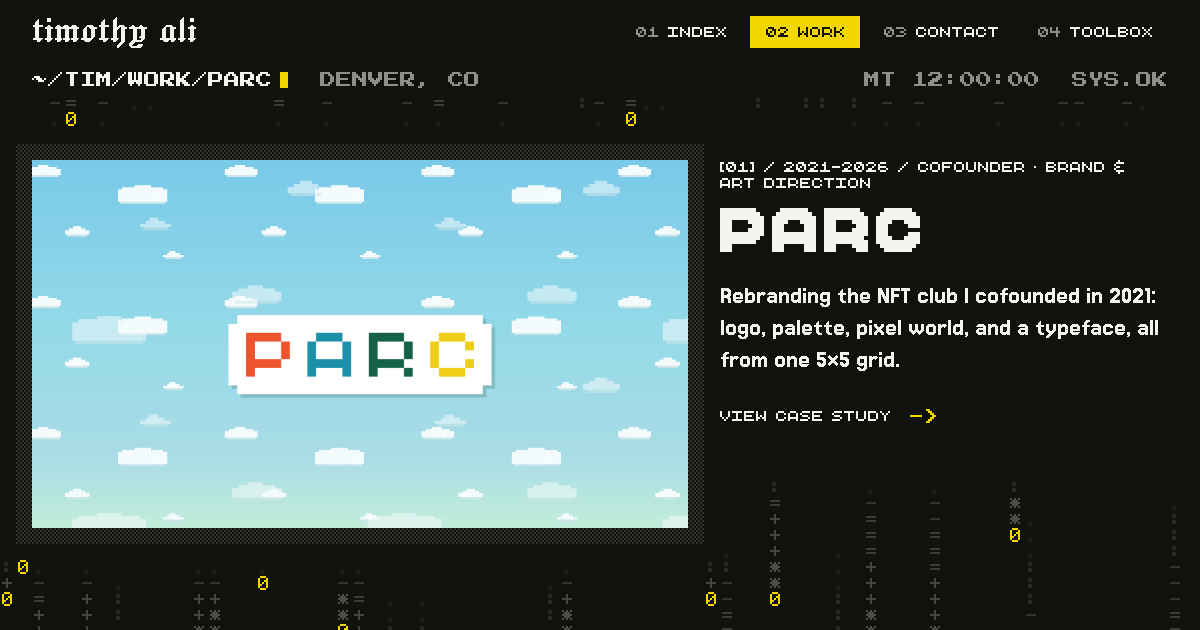
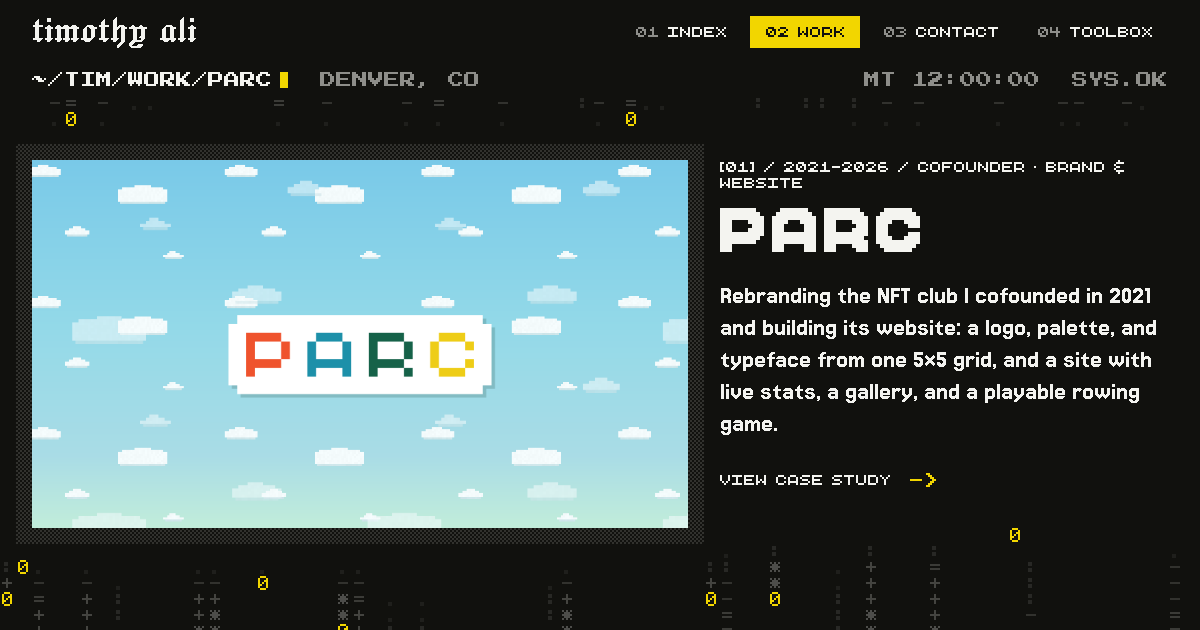
One PARC study, with the direction the team turned down (PX-45, PX-46)
PARC's website study is merged into the PARC brand study on Timothy's
direction (0126): the identity arc, then the site in its own blocks, one
reaction list and one outcome list. The brand study's duplicate site
screenshots go; the website study's are trimmed to about half. Eight
studies remain, the index tier now First Ledger, FirstStrike, Sonde and
Pocketwatch; /work/parc-site/ and /work/rowboat-racer/ redirect to
/work/parc/. Share images regenerated.

The study also gains "An earlier direction" (0125): the branch lockups
from around 2024 that the team did not agree on, rendered from Timothy's
SVG, with one paragraph in his account before the shipped logo.

The share-image generator takes OG_PORT from the environment; the review
scripts' route lists drop the old slug. Checks: svelte-check 0/0, 24
tests, production build, social:verify on 17 pages.

Changed region(s): [[0.5858, 0.5127, 0.9867, 0.6937], [0.5858, 0.754, 0.74, 0.7841], [0.6167, 0.2714, 0.74, 0.3016]]

diff --git a/src/lib/work.ts b/src/lib/work.ts
@@ -47,7 +47,7 @@ export interface Project extends Entry {
 export type Item = Project | Entry;
 
 // files that also exist as `<name>@2x.jpg` (2800px on the long side) for dense screens
-const X2 = new Set(['firstledger/guide-01', 'firstledger/guide-02', 'firstledger/guide-03', 'firstledger/guide-04', 'firstledger/guide-05', 'firstledger/guide-07', 'firstledger/guide-08', 'firstledger/guide-10', 'firstledger/hero', 'parc/club-masthead-sky', 'parc/phone-arcade', 'parc/phone-hero', 'parc/sign-sky', 'parc/site-arcade', 'parc/site-bands', 'parc/site-collections', 'parc/site-crew', 'parc/site-hero', 'xrpcafe/backdrop', 'xrpcafe/banner', 'xrpcafe/booth-setup', 'xrpcafe/booth-table', 'xrpcafe/booth-tablet', 'xrpcafe/booth-team', 'xrpcafe/jeopardy', 'xrpcafe/just-mint', 'xrpcafe/logo', 'xrpcafe/marketplace', 'xrpcafe/mug-bbq', 'xrpcafe/mug-pumpkin', 'xrpcafe/mug-saiyan', 'xrpcafe/vesea-charity', 'xrpcafe/xrpl-group', 'firststrike/billboard', 'firststrike/business-card', 'firststrike/color', 'firststrike/construction', 'firststrike/hero', 'firststrike/logo-primary', 'firststrike/logo-secondary', 'firststrike/mission', 'firststrike/pillars', 'firststrike/type']);
+const X2 = new Set(['parc/first-direction', 'firstledger/guide-01', 'firstledger/guide-02', 'firstledger/guide-03', 'firstledger/guide-04', 'firstledger/guide-05', 'firstledger/guide-07', 'firstledger/guide-08', 'firstledger/guide-10', 'firstledger/hero', 'parc/club-masthead-sky', 'parc/sign-sky', 'xrpcafe/backdrop', 'xrpcafe/banner', 'xrpcafe/booth-setup', 'xrpcafe/booth-table', 'xrpcafe/booth-tablet', 'xrpcafe/booth-team', 'xrpcafe/jeopardy', 'xrpcafe/just-mint', 'xrpcafe/logo', 'xrpcafe/marketplace', 'xrpcafe/mug-bbq', 'xrpcafe/mug-pumpkin', 'xrpcafe/mug-saiyan', 'xrpcafe/vesea-charity', 'xrpcafe/xrpl-group', 'firststrike/billboard', 'firststrike/business-card', 'firststrike/color', 'firststrike/construction', 'firststrike/hero', 'firststrike/logo-primary', 'firststrike/logo-secondary', 'firststrike/mission', 'firststrike/pillars', 'firststrike/type']);
 const media = (slug: string) => (f: string, w: number, h: number, alt: string): Media => {
   const base = f.replace(/\.[a-z]+$/, '');
   return { src: `/work/${slug}/${f}`, w, h, alt, x2: X2.has(`${slug}/${base}`) ? `/work/${slug}/${base}@2x.jpg` : undefined };
@@ -55,7 +55,7 @@ const media = (slug: string) => (f: string, w: number, h: number, alt: string): 
 const pa = media('parc'), xc = media('xrpcafe'), fl = media('firstledger'), dad = media('do-androids-dream');
 const fst = media('firststrike'), so = media('sonde'), ps = media('parc-site'), ja = media('jade-aesthetics'), pw = media('pocketwatch');
 
-/** Every project in display order: the selected four (PARC, Jade, xrp.cafe, Do Androids Dream, decision 0119), the index five, then the hidden two.
+/** Every project in display order: the selected four (PARC, Jade, xrp.cafe, Do Androids Dream, decision 0119), the index four (PARC Website merged into PARC, 0126), then the hidden two.
  *  `n` is assigned from the position in the visible set at the bottom of this file. */
 type Source = Omit<Project, 'n'> | Omit<Entry, 'n'>;
 const source: Source[] = [
@@ -65,16 +65,16 @@ const source: Source[] = [
     title: 'PARC',
     word: 'parc',
     year: '2021–2026',
-    scope: 'Cofounder · brand & art direction',
-    role: 'Cofounder · brand & art direction',
+    scope: 'Cofounder · brand & website',
+    role: 'Cofounder · brand, art direction & website',
     team: 'Cofounders xrpl_adam, sloppy, and stove',
-    timeline: 'Ongoing',
-    tools: 'Illustrator, Python (fontTools)',
+    timeline: 'Ongoing · site live since September 2026',
+    tools: 'Illustrator, Python (fontTools), SvelteKit, Svelte 5, TypeScript, Canvas, Vercel, Neon, Claude Code',
     live: { href: 'https://parcxrpl.com', label: 'parcxrpl.com' },
-    description: 'Rebranding the NFT club I cofounded in 2021: logo, palette, pixel world, and a typeface, all from one 5×5 grid.',
+    description: 'Rebranding the NFT club I cofounded in 2021 and building its website: a logo, palette, and typeface from one 5×5 grid, and a site with live stats, a gallery, and a playable rowing game.',
     cover: { src: '/work/parc.png', w: 1600, h: 900, alt: 'PARC’s four-color pixel letters on a white sign floating in a pixel-cloud sky' },
     lead: [
-      "I cofounded Pixel Ape Rowboat Club in 2021 and have led its branding and art direction since. For the 2026 rebrand I drew a new logo on the apes’ 5×5 grid, built PARC Pixel, a three-weight typeface, and carried both across the website, Discord, X, Twitch, merch, and the arcade."
+      "I cofounded Pixel Ape Rowboat Club in 2021 and have led its branding and art direction since. For the 2026 rebrand I drew a new logo on the apes’ 5×5 grid and built PARC Pixel, a three-weight typeface, then designed and built the club’s website on the same grid: live stats, a gallery, a playable rowing game, and merch."
     ],
     hero: [pa('sign-sky.png', 1600, 900, 'The new PARC box logo: four-color pixel letters on a white sign with notched corners, floating in a pixel-cloud sky')],
     blocks: [
@@ -85,17 +85,19 @@ const source: Source[] = [
       { type: 'text', title: 'The world', paras: [
         "The apes started with the Game Boy Advance Pokémon games as a reference: flat color, chunky pixels, sprites you could recognize at a glance. We built a world around them with islands, rowboats, volcanoes, and wooden huts. The rebrand needed to belong in that world."
       ] },
+      { type: 'text', title: 'An earlier direction', paras: [
+        "Around 2024 I had worked up a different direction: the club’s parts renamed as three branches, The Rowboat Club, The Parcade, and The Nightclub, each a black pixel wordmark with one red icon. The team didn’t agree on it, and it was set aside."
+      ] },
+      { type: 'gallery', note: 'Set aside, around 2024', rows: [
+        [pa('first-direction.png', 1600, 1000, 'The earlier direction: three black pixel lockups on white, The Nightclub, The Parcade, and The Rowboat Club, each with a small red icon')]
+      ] },
       { type: 'text', title: 'Same people, better brand', paras: [
         "The old logo was a cartoon ape with thick outlines and a bubbly wordmark. It didn’t look much like the pixel art around it. I drew the new logo on the apes’ 5×5 grid and put it on a white sign with notched corners.",
-        "The team was attached to the old identity and worried about how the community would react. An earlier rebrand direction I had worked up didn’t win them over, and we set it aside. This time I showed them the finished logo on its sign and asked them to trust me. The comments after launch were encouraging."
+        "The team was attached to the old identity and worried about how the community would react. This time I showed them the finished logo on its sign and asked them to trust me. The comments after launch were encouraging."
       ] },
       { type: 'gallery', note: 'Before, 2021 / after, 2026', rows: [
         [pa('old-mascot.png', 1600, 1600, 'The old PARC logo: a cartoon ape head with a wide grin and thick black outlines, a bubbly yellow PARC wordmark across the top'), pa('old-wordmark.png', 1600, 900, 'The old PARC secondary logo: the bubbly outlined wordmark in black')],
         [pa('mark-stacked.png', 1600, 1600, 'The new PARC square lockup: the box logo stacked over the oar'), pa('mark-wide.png', 1600, 533, 'The new PARC wide logo: four-color pixel letters on the white sign, on the pixel-cloud sky')]
-      ] },
-      { type: 'list', title: 'The reaction', items: [
-        '“I know I like the new banner and logo” / RedHotDankMoist, Discord',
-        '“Love it, great website update, looks amazing” / @BrandoWoodz, X'
       ] },
       { type: 'text', title: 'The system', paras: [
         "I made a wide logo, a square lockup, and an oar badge. They share a cell grid and notched corners, with two cells of clear space on every side. The final artwork uses merged paths so it can go straight into print and web files.",
@@ -110,21 +112,69 @@ const source: Source[] = [
         [pa('three-weights-a.png', 1600, 1200, 'PARC Pixel specimen on white: the letter A in Bold 700, Regular 400, and Light 300'), pa('anatomy-sheet.png', 1600, 1200, 'PARC Pixel specimen on white: the Bold R on its 11 by 11 cell grid'), pa('mono-numerals-sky.png', 1600, 1200, 'PARC Pixel Mono numerals 0 to 9 on the sky colorway')],
         [pa('glyph-grid-green.png', 1600, 1200, 'PARC Pixel Bold: 40 glyphs in a grid, one color per glyph, on the green colorway'), pa('square-ampersand-sky.png', 1600, 1600, 'PARC Pixel Bold ampersand at giant size on the sky colorway')]
       ] },
+      { type: 'text', title: 'The website', paras: [
+        "PARC had outgrown its Squarespace site. The club now had four collections, a token, a Twitch show, an arcade, and merch. I designed a new site to bring them together and built it with Claude Code, directing the implementation and reviewing each screen.",
+        "The logo’s pixel grid became the basis for the site. I wanted it to feel like arriving on the club’s island, with different places to explore as you scroll. Each page opens under a jungle canopy with two layers of drifting pixel clouds. A wooden sign holds the title, introduction, and buttons. The pages are places in the club’s world: the Clubhouse, Gallery, and PARCade."
+      ] },
+      { type: 'gallery', rows: [
+        [ps('home-hero.png', 1440, 900, 'parcxrpl.com home: the Pixel Ape Rowboat Club sign on a notched paper card over the scatter texture, under the green nav')],
+        [ps('home-collections.png', 1440, 900, 'parcxrpl.com collections: PARC, Monkey Phunks, and PARC Customs as paper cards on the sky'), ps('phone-home.png', 390, 844, 'parcxrpl.com home on a phone: the hero card with stacked pixel buttons')],
+        [ps('home-crew.png', 1440, 900, 'parcxrpl.com crew row: five ape avatars, each under its own color bar, above the green footer'), ps('not-found.png', 1440, 900, 'parcxrpl.com 404: a hanging sign reading Rowed off the map')]
+      ] },
+      { type: 'text', title: 'The notch', paras: [
+        "The notched corner appears throughout the site: 6px on buttons, 10px on cards, and 12px on panels. Buttons sit above a darker base, lift on hover, and drop when pressed. Movement follows the pixels too: buttons move in steps, water shifts one cell at a time, and dropdowns open line by line."
+      ] },
+      { type: 'text', title: 'Stats first', paras: [
+        "I put Stats first in the navigation so holders could get to it quickly. It shows floor prices, trading volume, holders, and listings for the collections, alongside $OAR token data. The numbers come from the ledger and marketplace APIs. Daily snapshots feed the charts, with history starting at launch."
+      ] },
+      { type: 'gallery', rows: [
+        [ps('stats-top.png', 1440, 900, 'parcxrpl.com Club Stats: the $OAR card with price, volume, market cap, holders, and two pixel bar charts'), ps('phone-stats.png', 390, 844, 'parcxrpl.com Club Stats on a phone')]
+      ] },
+      { type: 'text', title: 'Gallery & Clubhouse', paras: [
+        "The Gallery hangs the apes on clotheslines between two trees. Selecting a frame brings up a plaque with the ape’s name. The first version scrolled sideways and hijacked the wheel. It looked good and felt wrong, so I rebuilt it with ordinary vertical scrolling.",
+        "The Clubhouse took three layouts to get right. It ended up with a TV playing the Twitch stream, a trophy shelf, and a corkboard for events, suspended from branches. I checked the ropes at different screen widths to keep them attached."
+      ] },
+      { type: 'gallery', rows: [
+        [ps('gallery-top.png', 1440, 900, 'parcxrpl.com Gallery: the hanging sign with collection chips, and the generative apes on clotheslines between two trees'), ps('phone-gallery.png', 390, 844, 'parcxrpl.com Gallery on a phone: one portrait per clothesline')],
+        [ps('community-top.png', 1440, 900, 'parcxrpl.com Clubhouse: the hanging sign, the TV on its branch, and the cork notice board'), ps('phone-community.png', 390, 844, 'parcxrpl.com Clubhouse on a phone: the sign, the On Air plaque, and the branches')]
+      ] },
+      { type: 'text', title: 'PARCade', paras: [
+        "PARCade is an arcade cabinet with a green CRT screen, scanlines, a joystick, and buttons that control the menu. On the homepage, a smaller screen shows the game cover beside live high scores, surrounded by scenery built from the game’s sprites.",
+        "I also made Rowboat Racer: an ape rowing down a five-lane river, dodging logs, reefs, and ziggurats. I drew the sprites on a 3px grid. The riverbanks change between beach, jungle, rock, and village scenery on each run. The server replays a run before accepting its score on the leaderboard."
+      ] },
+      { type: 'gallery', rows: [
+        [ps('home-arcade.png', 1440, 900, 'parcxrpl.com PARCade band: the Rowboat Racer cover on a CRT and live high scores over the game’s island'), ps('phone-arcade.png', 390, 844, 'parcxrpl.com PARCade band on a phone')],
+        [ps('parcade-library.png', 1440, 900, 'parcxrpl.com PARCade booted: the game library with Rowboat Racer live and two cabinets coming soon'), ps('phone-parcade.png', 390, 844, 'parcxrpl.com PARCade on a phone: the game library on the CRT')],
+        [ps('game-run.png', 1280, 900, 'Rowboat Racer mid-run: the boat between a beach bank and a jungle bank, coins ahead, obstacles in their lanes'), ps('game-sprites.png', 832, 1000, 'Rowboat Racer sprite sheet: the boat, obstacles, pickups, and bank props on the 3px grid')]
+      ] },
+      { type: 'text', title: 'Merch & community', paras: [
+        "Merch was going to be an external link, but the storefront’s API let me bring the catalog onto the site. Only checkout leaves it. After Darc has a static-filled background, Discord has drifting chat bubbles, and the LARC teaser is a boathouse terminal that boots, glitches, and accepts typed input. The 404 sign says you rowed off the map."
+      ] },
+      { type: 'gallery', rows: [
+        [ps('merch.png', 1440, 900, 'parcxrpl.com Merch: the PARC Vibes tee and hoodie as pixel product cards with carousels and dropdowns'), ps('phone-merch.png', 390, 844, 'parcxrpl.com Merch on a phone')],
+        [ps('larc.png', 1440, 900, 'parcxrpl.com LARC teaser: the boathouse terminal mid-corruption, an unknown vessel detected'), ps('home-bands.png', 1440, 900, 'parcxrpl.com After Darc band in Twitch purple and Discord band in blurple')]
+      ] },
       { type: 'text', title: 'In the wild', paras: [
-        "The identity appears across the website, Discord, X, Twitch, merch, and arcade. On the site, the logo hangs in the sky and the collection cards float above an island. After Darc has its own graphics and a starting-soon animation for the stream.",
+        "Beyond the site, the identity runs through Discord, X, Twitch, merch, and the arcade. After Darc has its own graphics and a starting-soon animation for the stream.",
         "I made animated backgrounds for each part of the site: drifting clouds, a scatter of pixels that responds to the cursor, broadcast static for After Darc, and chat bubbles for Discord. They switch to still versions with reduced motion."
       ] },
       { type: 'gallery', rows: [
-        [pa('site-hero.png', 1600, 1000, 'parcxrpl.com hero: Pixel Ape Rowboat Club on the notched sign over the scatter texture, with the green nav bar')],
-        [pa('site-collections.png', 1600, 1000, 'parcxrpl.com collections: PARC, Monkey Phunks, and PARC Customs cards floating on the pixel-cloud sky'), pa('phone-hero.png', 739, 1600, 'parcxrpl.com hero on a phone')],
-        [pa('site-arcade.jpg', 1600, 1000, 'parcxrpl.com arcade band: the Rowboat Racer cover on a CRT and live high scores over the island'), pa('site-bands.png', 1600, 1000, 'parcxrpl.com After Darc band in Twitch purple and Discord band in blurple')],
-        [pa('site-crew.png', 1600, 1000, 'parcxrpl.com crew row and green footer with the stacked mark'), pa('phone-arcade.jpg', 739, 1600, 'parcxrpl.com arcade band on a phone: the Rowboat Racer cover over the island')],
         [{ src: '/work/video/parc-after-darc-intro.mp4', w: 1920, h: 1080, video: true, alt: 'PARC After Darc starting-soon screen: a pixel sun over the sea with a rowboat drifting past, looped before the stream' }],
         [pa('after-darc-announce.png', 1600, 1600, 'PARC After Darc new-stream graphic: the wordmark over a pixel sunset, Saturday 9pm UTC on Twitch'), pa('after-darc-live.png', 1600, 1600, 'PARC After Darc live-now graphic: the wordmark over a pixel night sky and moon'), pa('after-darc-today.png', 1600, 1600, 'PARC After Darc tonight graphic'), pa('after-darc-reminder.png', 1600, 1600, 'PARC After Darc tomorrow graphic')],
         [pa('larc-teaser.jpg', 1600, 1600, 'LARC teaser: glitched terminal text on black announcing the next collection'), pa('parcade-scores.jpg', 1600, 1600, 'PARCade high-score board in PARC Pixel Mono')]
       ] },
-      { type: 'text', title: 'Outcome', paras: [
-        "The rebrand launched in September 2026 with a print and web logo library, the PARC Pixel typeface, and updated artwork for the site, community channels, merch, and arcade."
+      { type: 'text', title: 'How it was built', paras: [
+        "I worked screen by screen with Claude Code, checking screenshots, phone layouts, and type errors as I went. Shared color, type, and spacing settings kept the pages consistent. I compressed the fonts and animated artwork before deploying to Vercel."
+      ] },
+      { type: 'list', title: 'The reaction', items: [
+        '“I know I like the new banner and logo” / RedHotDankMoist, Discord',
+        '“Love it, great website update, looks amazing” / @BrandoWoodz, X'
+      ] },
+      { type: 'list', title: 'Outcome', items: [
+        'A print and web logo library for the wide logo, the square lockup, and the oar, and five colors on every surface',
+        'PARC Pixel: three weights plus a mono, 57 characters each, the only typeface on the site',
+        'Seven pages plus the error pages, live at parcxrpl.com since September 2026, designed and built alone with Claude Code',
+        'Live data throughout: the ledger, xrp.cafe, the AMM, the Fourthwall storefront, and the game leaderboard'
       ] }
     ]
   },
@@ -424,91 +474,6 @@ const source: Source[] = [
       ] },
       { type: 'text', title: 'Outcome', paras: [
         "I launched Sonde with a public explorer, analytics, and paid portfolio and investigation tools. Subscriptions accepted fiat and crypto. I handled design, development, and operations until I closed the hosted app."
-      ] }
-    ]
-  },
-  {
-    tier: 'index',
-    slug: 'parc-site',
-    title: 'PARC Website',
-    word: 'parc website',
-    year: '2026',
-    scope: 'Web & code',
-    role: 'Design & code',
-    timeline: 'Live since September 2026',
-    tools: 'SvelteKit, Svelte 5, TypeScript, Canvas, Vercel, Neon, Claude Code',
-    live: { href: 'https://parcxrpl.com', label: 'parcxrpl.com' },
-    description: 'A website for the club, with live stats, a gallery on clotheslines, and a playable rowing game.',
-    cover: { src: '/work/parc-site.png', w: 1440, h: 810, alt: 'parcxrpl.com home: the Pixel Ape Rowboat Club sign on a notched paper card under the green nav' },
-    lead: [
-      "PARC had outgrown its Squarespace site. The club now had four collections, a token, a Twitch show, an arcade, and merch. I designed a new site to bring them together and built it with Claude Code, directing the implementation and reviewing each screen."
-    ],
-    hero: [ps('home-hero.png', 1440, 900, 'parcxrpl.com home: the Pixel Ape Rowboat Club sign on a notched paper card over the scatter texture, under the green nav')],
-    blocks: [
-      { type: 'list', title: 'What it is', items: [
-        'Home, Gallery, Clubhouse, PARCade, Merch, Stats, LARC, and the error pages',
-        'One typeface, PARC Pixel, in three weights',
-        "Live collection stats, token data, and game scores"
-      ] },
-      { type: 'text', title: 'The island', paras: [
-        "The logo’s pixel grid became the basis for the site. I wanted it to feel like arriving on the club’s island, with different places to explore as you scroll.",
-        "Each page opens under a jungle canopy with two layers of drifting pixel clouds. A wooden sign holds the title, introduction, and buttons. The pages are places in the club’s world: the Clubhouse, Gallery, and PARCade. Generated textures give the scenery some variation."
-      ] },
-      { type: 'gallery', rows: [
-        [ps('home-collections.png', 1440, 900, 'parcxrpl.com collections: PARC, Monkey Phunks, and PARC Customs as paper cards on the sky'), ps('phone-home.png', 390, 844, 'parcxrpl.com home on a phone: the hero card with stacked pixel buttons')],
-        [ps('home-oar.png', 1440, 900, 'parcxrpl.com: the Buy $OAR and Set Trustline cards at the foot of the sky'), ps('home-crew.png', 1440, 900, 'parcxrpl.com crew row: five ape avatars, each under its own color bar, above the green footer')],
-        [ps('not-found.png', 1440, 900, 'parcxrpl.com 404: a hanging sign reading Rowed off the map'), ps('phone-collections.png', 390, 844, 'parcxrpl.com collection cards on a phone')]
-      ] },
-      { type: 'text', title: 'The notch', paras: [
-        "The notched corner appears throughout the site: 6px on buttons, 10px on cards, and 12px on panels. Buttons sit above a darker base, lift on hover, and drop when pressed. Movement follows the pixels too: buttons move in steps, water shifts one cell at a time, and dropdowns open line by line."
-      ] },
-      { type: 'text', title: 'Stats first', paras: [
-        "I put Stats first in the navigation so holders could get to it quickly. It shows floor prices, trading volume, holders, and listings for the collections, alongside $OAR token data. The numbers come from the ledger and marketplace APIs. Daily snapshots feed the charts, with history starting at launch."
-      ] },
-      { type: 'gallery', rows: [
-        [ps('stats-top.png', 1440, 900, 'parcxrpl.com Club Stats: the $OAR card with price, volume, market cap, holders, and two pixel bar charts'), ps('phone-stats.png', 390, 844, 'parcxrpl.com Club Stats on a phone')],
-        [ps('stats-cards.png', 1440, 900, 'parcxrpl.com Club Stats: four collection cards with floor, volume, holders, listed, and a 30-day floor chart')]
-      ] },
-      { type: 'text', title: 'Gallery & Clubhouse', paras: [
-        "The Gallery hangs the apes on clotheslines between two trees. Selecting a frame brings up a plaque with the ape’s name. The first version scrolled sideways and hijacked the wheel. It looked good and felt wrong, so I rebuilt it with ordinary vertical scrolling.",
-        "The Clubhouse took three layouts to get right. It ended up with a TV playing the Twitch stream, a trophy shelf, and a corkboard for events, suspended from branches. I checked the ropes at different screen widths to keep them attached."
-      ] },
-      { type: 'gallery', rows: [
-        [ps('gallery-top.png', 1440, 900, 'parcxrpl.com Gallery: the hanging sign with collection chips, and the generative apes on clotheslines between two trees'), ps('phone-gallery.png', 390, 844, 'parcxrpl.com Gallery on a phone: one portrait per clothesline')],
-        [ps('gallery-customs.png', 1440, 900, 'parcxrpl.com Gallery: the PARC Customs one-of-ones on clotheslines')],
-        [ps('community-top.png', 1440, 900, 'parcxrpl.com Clubhouse: the hanging sign, the TV on its branch, and the cork notice board'), ps('phone-community.png', 390, 844, 'parcxrpl.com Clubhouse on a phone: the sign, the On Air plaque, and the branches')],
-        [ps('community-mid.png', 1440, 900, 'parcxrpl.com Clubhouse: the trophy shelf and event cards beside the notice board'), ps('community-low.png', 1440, 900, 'parcxrpl.com Clubhouse: the last event cards above the grass and sand at the foot of the page')]
-      ] },
-      { type: 'text', title: 'PARCade', paras: [
-        "PARCade is an arcade cabinet with a green CRT screen, scanlines, a joystick, and buttons that control the menu. On the homepage, a smaller screen shows the game cover beside live high scores, surrounded by scenery built from the game’s sprites.",
-        "I also made Rowboat Racer: an ape rowing down a five-lane river, dodging logs, reefs, and ziggurats. I drew the sprites on a 3px grid. The riverbanks change between beach, jungle, rock, and village scenery on each run. The server replays a run before accepting its score on the leaderboard."
-      ] },
-      { type: 'gallery', rows: [
-        [ps('home-arcade.png', 1440, 900, 'parcxrpl.com PARCade band: the Rowboat Racer cover on a CRT and live high scores over the game’s island'), ps('phone-arcade.png', 390, 844, 'parcxrpl.com PARCade band on a phone')],
-        [ps('parcade-library.png', 1440, 900, 'parcxrpl.com PARCade booted: the game library with Rowboat Racer live and two cabinets coming soon'), ps('phone-parcade.png', 390, 844, 'parcxrpl.com PARCade on a phone: the game library on the CRT')],
-        [ps('parcade-boot.png', 1440, 900, 'parcxrpl.com PARCade booting: the PARC badge assembling on the green CRT above the deck')],
-        [ps('game-run.png', 1280, 900, 'Rowboat Racer mid-run: the boat between a beach bank and a jungle bank, coins ahead, obstacles in their lanes'), ps('game-sprites.png', 832, 1000, 'Rowboat Racer sprite sheet: the boat, obstacles, pickups, and bank props on the 3px grid')],
-        [ps('game-banks.png', 1292, 812, 'Rowboat Racer banks: rocky, village, jungle, and beach biomes with clustered props and a wandering shoreline')]
-      ] },
-      { type: 'text', title: 'Merch & community', paras: [
-        "Merch was going to be an external link, but the storefront’s API let me bring the catalog onto the site. Only checkout leaves it. After Darc has a static-filled background, Discord has drifting chat bubbles, and the LARC teaser is a boathouse terminal that boots, glitches, and accepts typed input. The 404 sign says you rowed off the map."
-      ] },
-      { type: 'gallery', rows: [
-        [ps('merch.png', 1440, 900, 'parcxrpl.com Merch: the PARC Vibes tee and hoodie as pixel product cards with carousels and dropdowns'), ps('phone-merch.png', 390, 844, 'parcxrpl.com Merch on a phone')],
-        [ps('larc.png', 1440, 900, 'parcxrpl.com LARC teaser: the boathouse terminal mid-corruption, an unknown vessel detected'), ps('home-bands.png', 1440, 900, 'parcxrpl.com After Darc band in Twitch purple and Discord band in blurple')]
-      ] },
-      { type: 'text', title: 'How it was built', paras: [
-        "I worked screen by screen with Claude Code, checking screenshots, phone layouts, and type errors as I went. Shared color, type, and spacing settings kept the pages consistent. I compressed the fonts and animated artwork before deploying to Vercel."
-      ] },
-      { type: 'list', title: 'The reaction', items: [
-        '“Love it, great website update, looks amazing” / @BrandoWoodz, X'
-      ] },
-      { type: 'list', title: 'Outcome', items: [
-        'Seven pages plus the error pages, live at parcxrpl.com since September 2026',
-        'Designed and built alone, with Claude Code',
-        'Shared components for the page headers, buttons, cards, and navigation',
-        'Live data throughout: the ledger, xrp.cafe, the AMM, the Fourthwall storefront, and the game leaderboard',
-        'PARC Pixel is the only typeface on the site'
       ] }
     ]
   },

diff --git a/docs/alternate-v2.md b/docs/alternate-v2.md
@@ -44,7 +44,7 @@ Every font is a bitmap design with a known number of cells per em, so a size is 
 - `src/lib/components/QuietLink.svelte` — a link with no ground, an arrow and accent on hover; `dir` and `pad`.
 - `src/lib/components/Picture.svelte` — a photograph at its own resolution (0054: images are not resampled); holds the file’s aspect (`width`/`height`), sets an integer 2px-snapped height from its width on mount so the layout below stays on the grid, optional `x2` file in `srcset` (1.75× the base).
 - `src/lib/components/Clip.svelte` — a muted looping video at its own resolution, playing only on screen with motion on, paused otherwise; same integer sizing.
-- `src/lib/work.ts` — one `source` array of every project in display order: the four selected (PARC, Jade Aesthetics, xrp.cafe, Do Androids Dream, decision 0119), the five index entries (First Ledger, FirstStrike Research, Sonde, PARC Website, Pocketwatch), then the two hidden ones (Gridform Studio, Studio Gridform). Each carries index fields, `tier`, cover, lead, hero row and blocks (`text`, `gallery` rows, `list`); `hidden: true` keeps an entry in the data with no page and no assets (0077). Exports: `all` (everything, `n` derived in visible display order), `studies` (the eight visible, in route and Next-chain order), `projects` (the selected tier — Home cards, Work rows), `index` (the index tier — the Work list), `count` `004`, `total` `008`, `last` `08`. `rowColumns()` turns a row of images into aspect-proportional columns snapped to the 2px cell. One source for Home, Work and the studies.
+- `src/lib/work.ts` — one `source` array of every project in display order: the four selected (PARC, Jade Aesthetics, xrp.cafe, Do Androids Dream, decision 0119), the four index entries (First Ledger, FirstStrike Research, Sonde, Pocketwatch; PARC Website was merged into PARC, 0126), then the two hidden ones (Gridform Studio, Studio Gridform). Each carries index fields, `tier`, cover, lead, hero row and blocks (`text`, `gallery` rows, `list`); `hidden: true` keeps an entry in the data with no page and no assets (0077). Exports: `all` (everything, `n` derived in visible display order), `studies` (the eight visible, in route and Next-chain order), `projects` (the selected tier — Home cards, Work rows), `index` (the index tier — the Work list), `count` `004`, `total` `008`, `last` `08`. `rowColumns()` turns a row of images into aspect-proportional columns snapped to the 2px cell. One source for Home, Work and the studies.
 - `src/routes/+page.svelte` — full-viewport hero (sky ASCII field, typed name, then a role line in the body face and a status line in the label face with the résumé link (PX-43), “Selected work” hint as a filled yellow block with a stepping pixel arrow, a link to `#work`; the field knocks out around the lines and the hint), one plain sentence section `.who` (“Designer for teams that don’t have one yet. I care how it looks. moves. works.” — 82px display with the blackletter words inline at 129 on a 128px line, discipline labels inline at the baseline, hand-set breaks above 700px; proof + CTA as a closing row), “Selected work” heading over 2×2 project cards from `work.ts`, invitation on a `fall` field with a full-width yellow CTA. Every textured band knocks out around its text. There is no diagram, no band overlap, no “I get invested.” line (0052) and no separate statement band (0053).
 - `src/routes/work/+page.svelte` — heading (`.display-xl` + `IndexRow` `01–08`), then two tiers (0077). The selected tier is one wide row per project (cover 3/5, `MetaLine`, 82px title, body, `Cta variant="quiet"`), no surface and no plates (0074); the row CSS lives in `blocks.css` and rows stack under 900px. Below it the index tier is `Index 05–08` and one `a.entry` per project: number / title at 41 with a one-line body and the same quiet CTA / year / scope, stacking under 900px; its CSS is route-local. Footer `End of index / 008`.
 - `src/routes/work/[slug]/` — the case-study template (`+page.svelte`) and loader (`+page.ts`, prerendered from `studies`, so all eight visible projects have a page and the Next chain runs 01 → 08 → 01): back link, label, lowercase blackletter title at 172/129/86 with a measured step-down when the word would not fit, one lead paragraph at 27/40 in a 64ch column (0123) + meta block (Role, Team when the data names one, Timeline, Tools, Live), hero row, text sections (title left half, body right half at 27/40 in a 64ch column, PX-43), galleries, numbered outcome list, yellow next-project row, page footer. Images in `static/work/<slug>/` (1600px, plus `@2x.jpg` at 2800px where the source allowed), videos in `static/work/video/`.

diff --git a/docs/decision-log.md b/docs/decision-log.md
@@ -1856,3 +1856,17 @@ Seeing it, Timothy asked for “slightly darker”. Five candidates were rendere
 - **Layout correction:** Download uses the next whole-cell Jacquard step at the existing 420px breakpoint after the new word overflowed at 320px. Study leads retain Timothy's 27/40 correction (0123).
 - **Limits:** No additional xrp.cafe interface scope or Pocketwatch interaction story invented. Those evidence gaps need project detail. Employer-specific interest is not invented in the reusable letters.
 - **Status:** Copy edits explicitly authorized and implemented locally. Evidence: `docs/iterations/pixel-v2/44-copy-edit/`; private document baseline and verification remain beside the résumé sources. Pushed with PX-43 the same evening on Timothy's “commit and push it, everything”.
+
+## 0125 — The PARC study shows the direction the team turned down
+
+- **Date:** 2026-09-22
+- **Direction:** Timothy supplied the artwork of the earlier rebrand direction (`PARCADE_LOGO.svg` in his PARCADE branding folder: The Nightclub, The Parcade and The Rowboat Club as black pixel wordmarks with one red icon each) and said it is “to be added to the case study”. It is not a live rename; the club site still says PARCade, After Darc and Clubhouse.
+- **Implementation:** An “An earlier direction” block after “The world”: one paragraph in his account (around 2024, the branches, the team not agreeing, setting it aside) and the sheet rendered on white at 1600×1000 with a 2× companion, noted “Set aside, around 2024”. The decision paragraph in “Same people, better brand” keeps “This time I showed them the finished logo on its sign and asked them to trust me.” First written as a 2026 first pass; Timothy corrected the date the same evening (“probably from like 2024 ish”), so the copy hedges with “around 2024”.
+- **Status:** Timothy's direction and artwork; the paragraph is the assistant's wording of his account. Reviewed on the preview and pushed the same evening.
+
+## 0126 — One PARC study: the brand and the website together
+
+- **Date:** 2026-09-22
+- **Direction:** Timothy: “i think we combine the parc website and parc branding into one case study.”
+- **Implementation:** The PARC Website study (index entry 08, `/work/parc-site/`) is folded into PARC. The merged study runs from the club's start through the earlier direction, the shipped logo, the system and the typeface, then the website in its own blocks (The website, The notch, Stats first, Gallery & Clubhouse, PARCade, Merch & community, In the wild, How it was built), ending with the reaction and one outcome list. The brand study's own site screenshots, which duplicated the website study's, are dropped with their 2× files; the website study's screenshots are trimmed to about half. Scope reads “Cofounder · brand & website”, the tools list both sides, the timeline notes the site's launch. `/work/parc-site/` and the older `/work/rowboat-racer/` redirect to `/work/parc/` in `vercel.json`. Eight studies remain, the index tier now First Ledger, FirstStrike, Sonde and Pocketwatch; share images regenerated for the new numbers; the review scripts' route lists drop the old slug.
+- **Status:** Timothy's direction; the merged structure and the trimming are the assistant's choices. Reviewed on the preview and pushed the same evening.

diff --git a/docs/iteration-log.md b/docs/iteration-log.md
@@ -615,3 +615,11 @@ Timothy accepted the full copy review and replacement drafts. Home's new copy na
 Outside the public repo, résumé summaries and the long brand bullets were shortened, project links added, and web-track platform figures separated from contributions. Both cover letters use the accepted concrete project examples, track-specific openings, and shorter closing. The builder can insert a supplied employer-fit sentence. Personal facts and platform-scale sentences were verified unchanged against the archived source. All five PDFs remain one page with selectable text and embedded fonts; each fresh render was inspected. The phone-free public copy was synced and served bytes verified. Private source/PDF baselines and verification are retained beside the editable sources.
 
 Svelte check 0 errors/warnings, production build and 18-page metadata checks pass. Browser checks cover six edited routes at 1440/390/320 with no horizontal overflow, plus contact validation without sending a message. A fresh preview on port 4175 resolves the older preview processes' stale module references. Source before/after, the isolated diff, and verification are in `docs/iterations/pixel-v2/44-copy-edit/`. Implementation authorized; not committed, pushed, or deployed. The two project-evidence gaps from the review remain documented rather than filled speculatively.
+
+## PX-45 — The PARC first direction (2026-09-22, 0125)
+
+The gap the three reviews all pointed at, between “the team was worried” and “the comments were encouraging”, now has its middle. Timothy sent the direction the team turned down: three branch lockups, The Nightclub, The Parcade and The Rowboat Club, black pixel wordmarks with a red icon each. The PARC study shows the sheet under “An earlier direction”, dated around 2024 on his correction, with one paragraph in his account, before the shipped logo. Rendered from his SVG through the site's Chromium onto white, 1600×1000 plus a 2× JPEG, noted “Set aside, 2026”. Awaiting his eye on the preview.
+
+## PX-46 — One PARC study (2026-09-22, 0126)
+
+Timothy asked for the PARC brand and PARC Website studies to be one. The brand study keeps its arc and gains the website as a second act, in the website study's own words, with about half of its screenshots; the brand study's duplicate site shots go. One reaction list and one outcome list close it. The old URL redirects. The share-image generator now takes `OG_PORT` from the environment, because 4174 was Timothy's own preview and 4175 Codex's. Check, build and the 17-page metadata verification pass. Awaiting his eye on the preview.

diff --git a/AGENTS.md b/AGENTS.md
@@ -68,3 +68,7 @@ PX-43 (2026-09-22, 0118–0122): hiring-fit pass on Timothy's brief (the brief's
 
 
 PX-44 (2026-09-22, 0124): Timothy accepted the copy-review edits across portfolio, targeted résumés, and cover letters. Applied more specific Home copy, shortened PARC/Jade/xrp.cafe/Sonde passages, broader contact field wording, and Toolbox's Download heading (43/48 below 420px to fit 320px). Private application sources remain in the September 22 résumé source folder; five PDFs rebuilt, public phone-free copy synced. Confirmed facts and platform-scale sentences unchanged. Check/build/metadata and browser width checks pass. Evidence: `docs/iterations/pixel-v2/44-copy-edit/`. Pushed with PX-43 the same evening on Timothy's word; preserve the 0123 body-sized study lead.
+
+PX-45 (2026-09-22, 0125): the PARC study gains “An earlier direction” (around 2024, on Timothy's correction), the branch lockups the team turned down (The Nightclub, The Parcade, The Rowboat Club), rendered from Timothy's SVG to `static/work/parc/first-direction.png` (+2×), with one paragraph in his account before the shipped logo. Not a live rename on the club site. Awaiting his review on the preview.
+
+PX-46 (2026-09-22, 0126): on Timothy's direction the PARC Website study is merged into PARC; eight studies, the index tier is First Ledger, FirstStrike, Sonde, Pocketwatch; `/work/parc-site/` redirects to `/work/parc/`; the brand study's duplicate site screenshots were removed. `tools/social/generate.mjs` takes `OG_PORT`. Awaiting his review on the preview.

diff --git a/docs/iterations/pixel-v2/45-parc-first-direction/README.md b/docs/iterations/pixel-v2/45-parc-first-direction/README.md
@@ -1,0 +1,5 @@
+# PX-45 — The PARC earlier direction
+
+2026-09-22, decision 0125. Timothy's SVG of the direction the team turned down (around 2024, on his correction: The Nightclub, The Parcade and The Rowboat Club, black pixel wordmarks with one red icon each) rendered on white to `static/work/parc/first-direction.png` (1600×1000) and `first-direction@2x.jpg` (2800×1750), shown in the PARC study under “An earlier direction” with the note “Set aside, around 2024”, before the shipped logo.
+
+`1440-earlier-direction.png` and `390-earlier-direction.png` are the block on the preview build, chrome hidden for the capture. Svelte check 0/0 and the production build pass. Awaiting Timothy's eye; not pushed.

diff --git a/docs/iterations/pixel-v2/46-one-parc-study/README.md b/docs/iterations/pixel-v2/46-one-parc-study/README.md
@@ -1,0 +1,3 @@
+# PX-46 — One PARC study
+
+2026-09-22, decision 0126. The PARC Website study is merged into PARC on Timothy's direction. `1440-parc-full.png` is the merged study on the preview build, `1440-work-full.png` the Work index with eight studies (First Ledger, FirstStrike, Sonde and Pocketwatch as 05 to 08). The old URL `/work/parc-site/` redirects in `vercel.json`, which the static preview does not apply. Svelte check 0/0, production build, `social:verify` on 17 pages. Awaiting Timothy's eye; not pushed.
